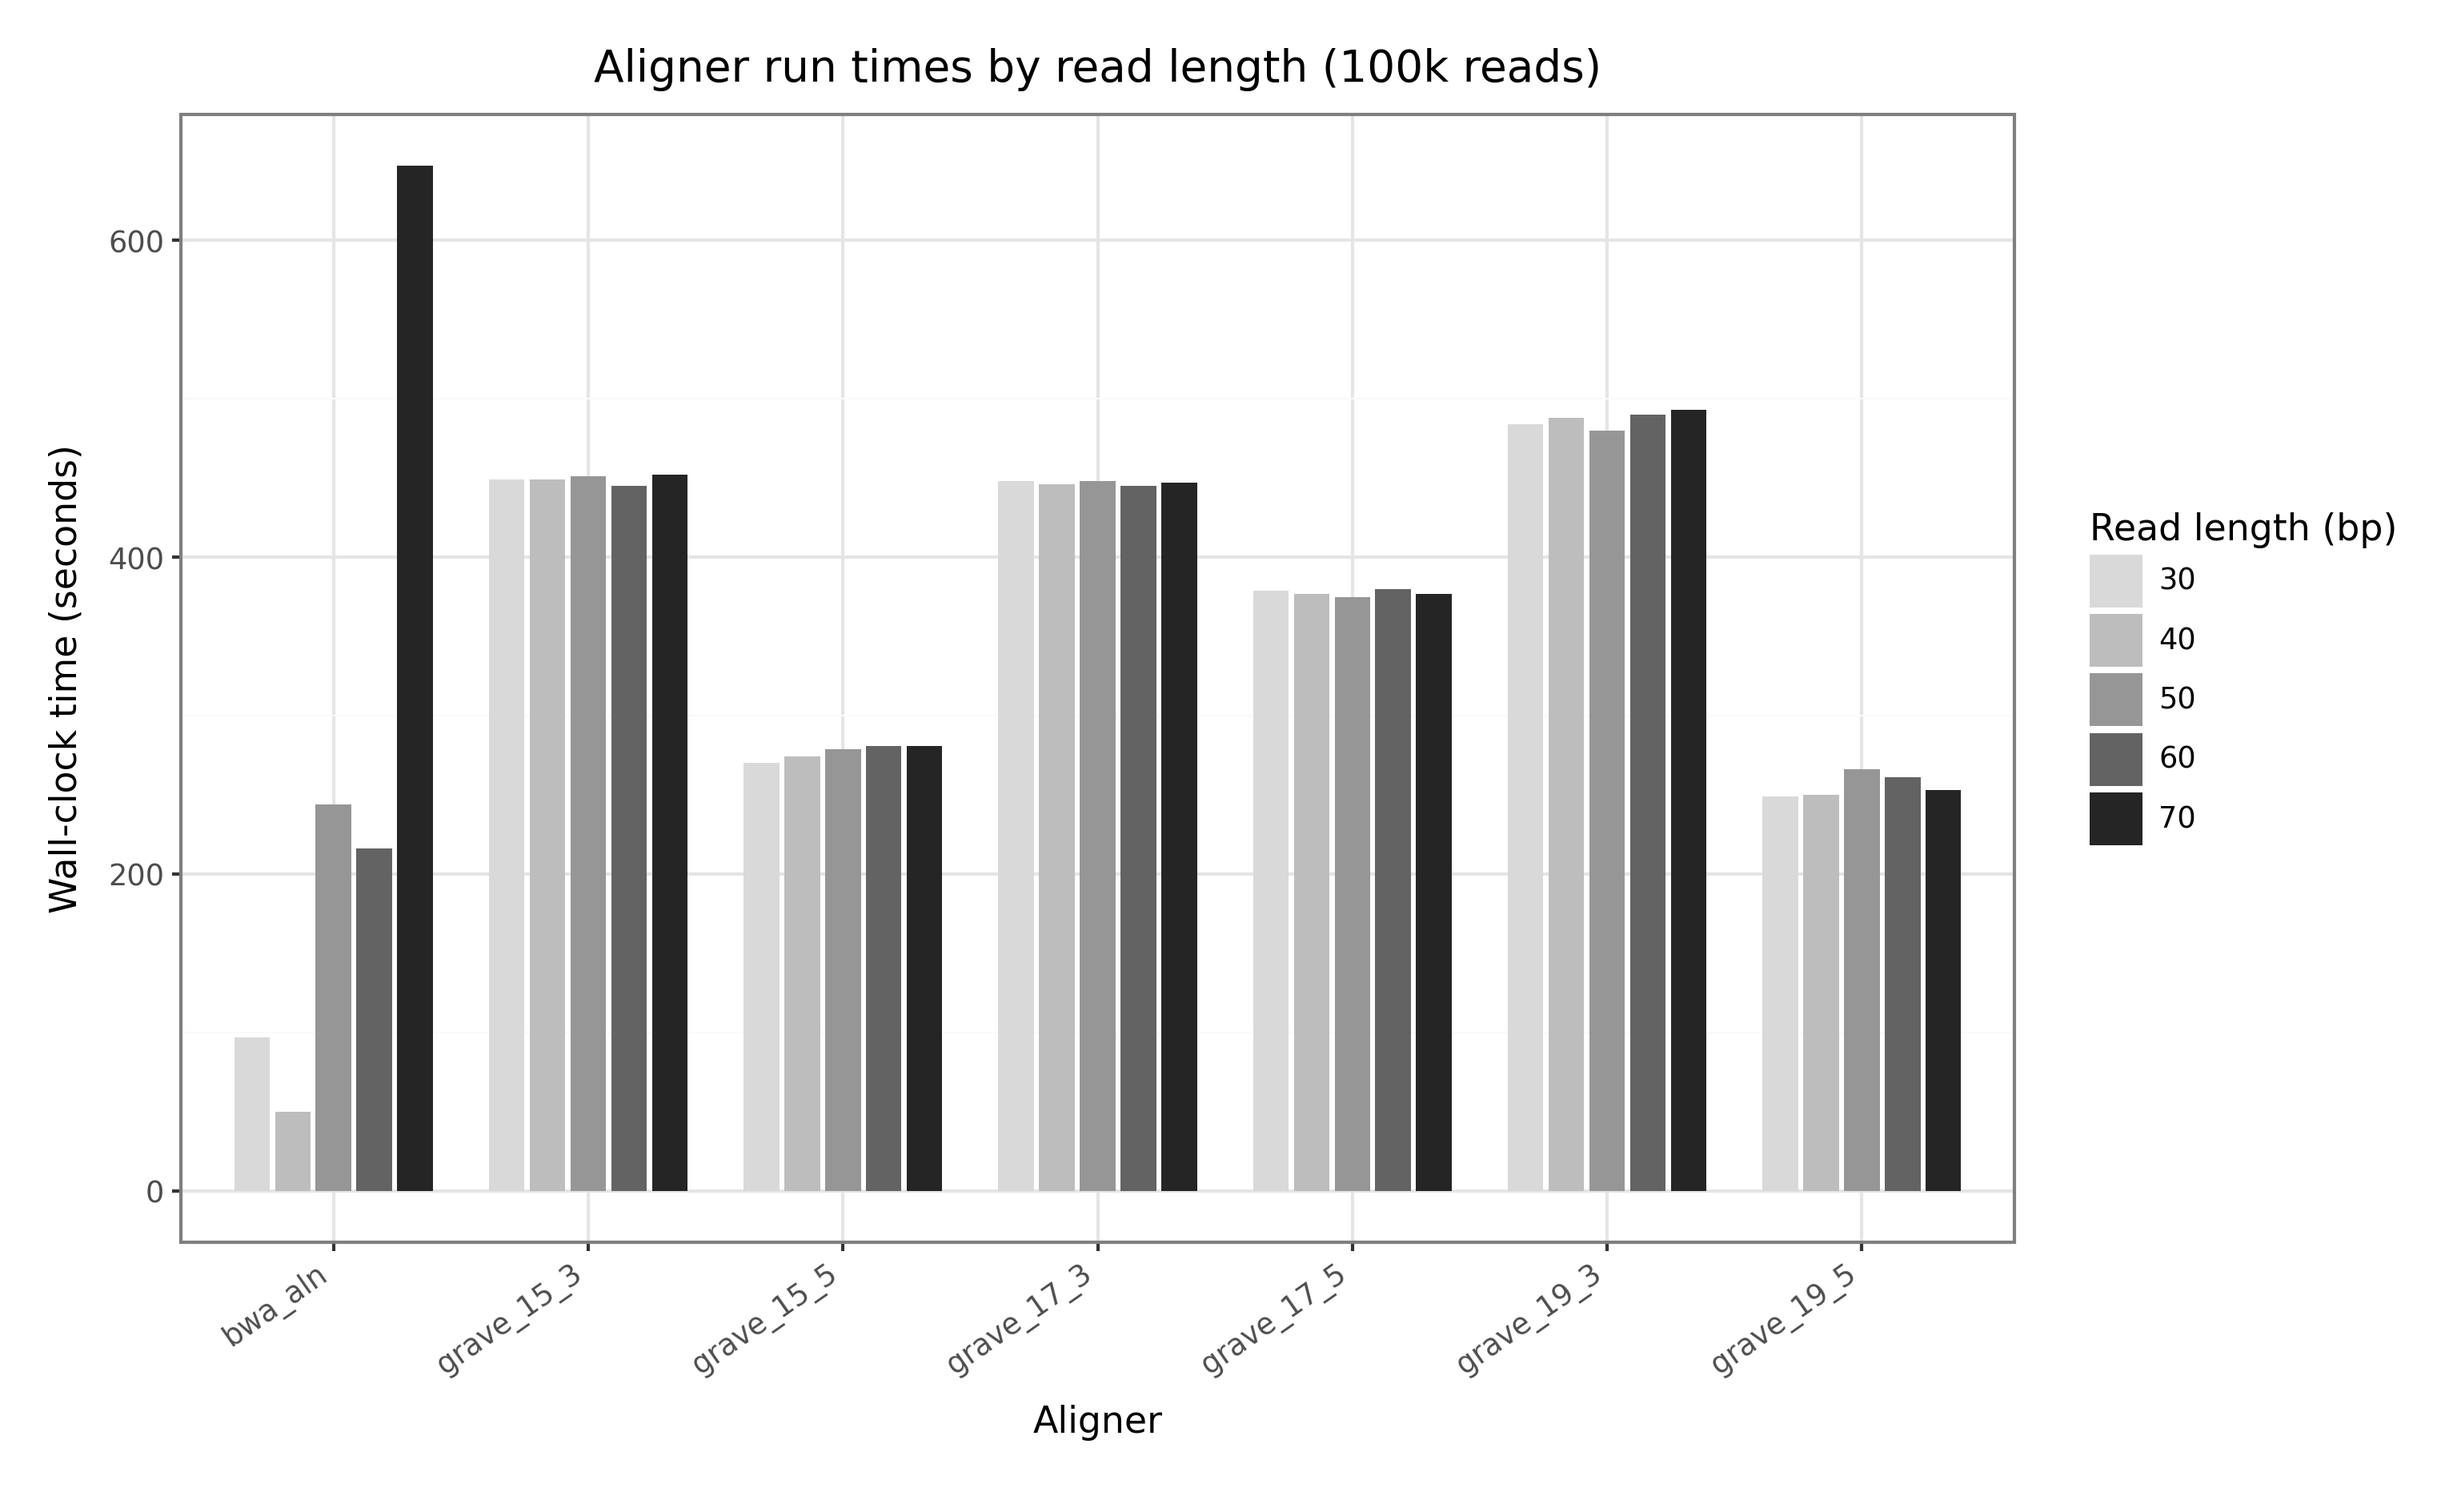
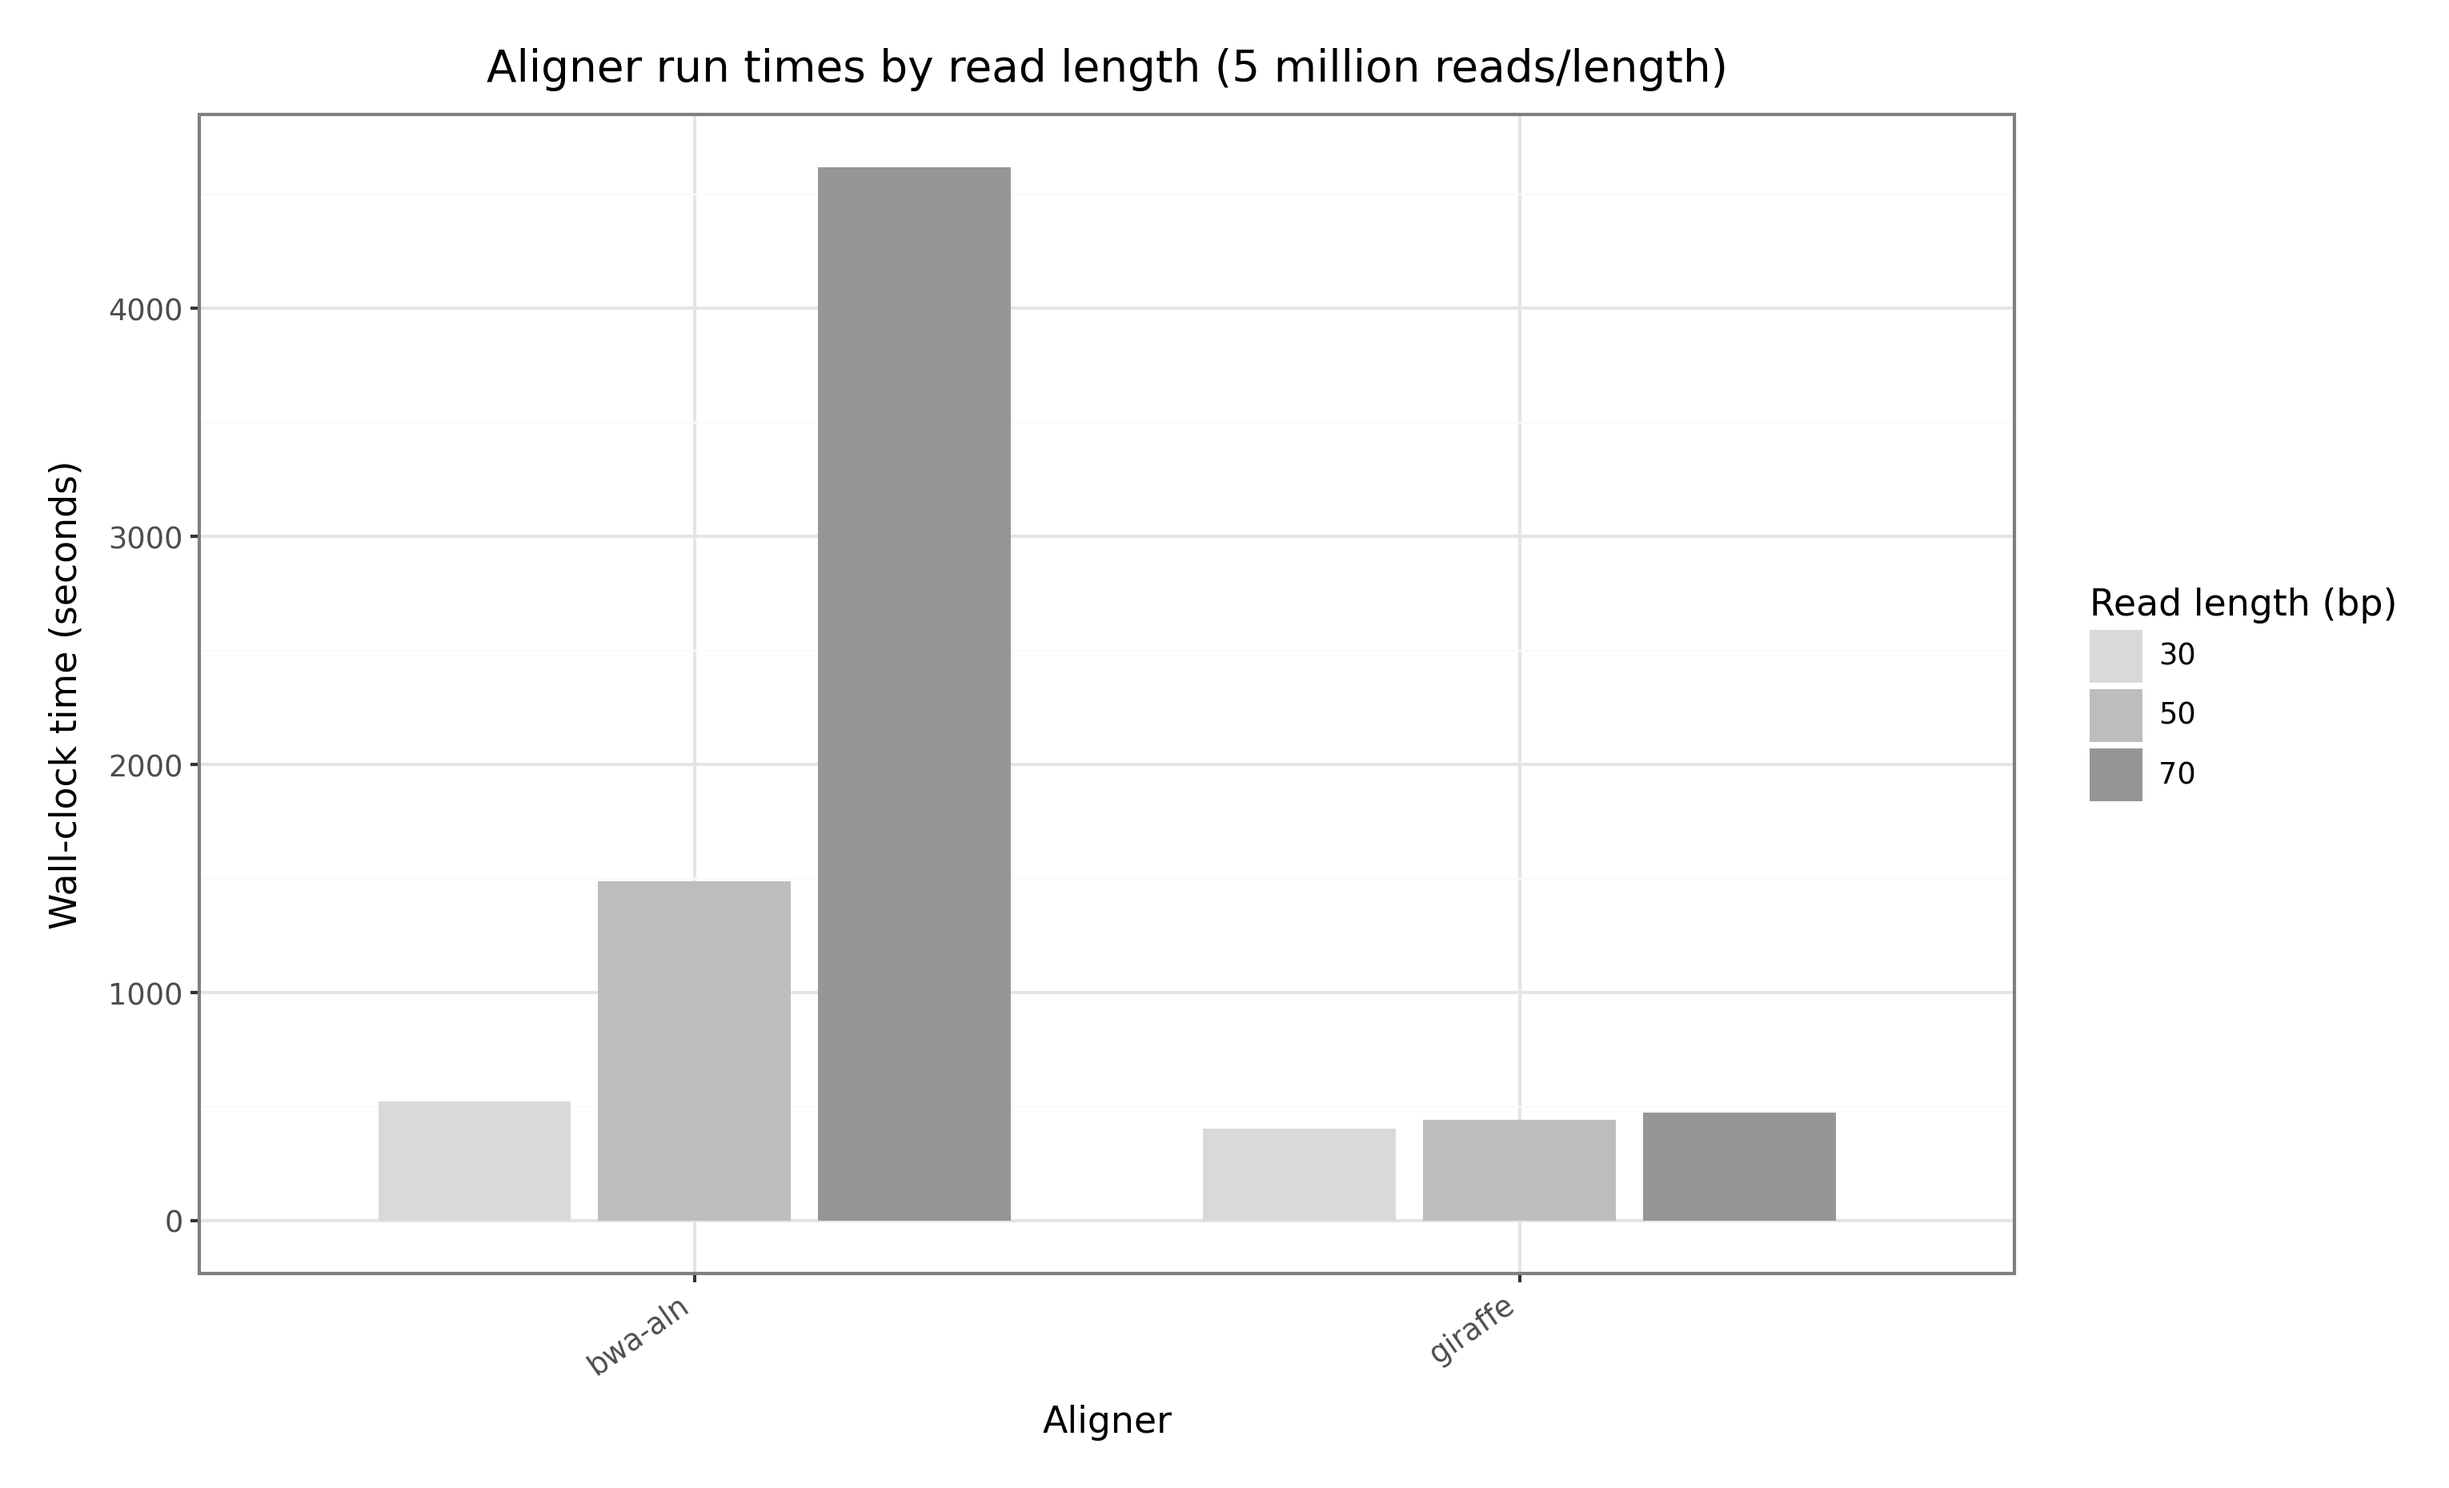
update readme runtimes

diff --git a/README.md b/README.md
@@ -168,9 +168,11 @@ Complete a `samplesheet.csv` file, detailing file system paths to your reads. Th
 
 **Comparison of alignment run time**<br>
 
-TODO UPDATE    ![Run times](assets/runtimes.png)
-TODO CPU tools were run with 48 cpus. All tests were run on a SIZE/coverage sample.
-- The dense index generated for `giraffe` does not result in an increased run-time versus `bwa aln` on 48 CPUs
+![Run times](assets/runtimes.png)
+
+- 5 million reads per length were aligned using 48 CPUs
+- `bwa aln` targeted the sheep linear reference genome
+- `giraffe` targeted a sheep pangenome graph, and used the `grave` default indexes settings (`k` = 15, `w` = 3)
 
 ##### GPU accelerated graph alignment with parabricks
 
